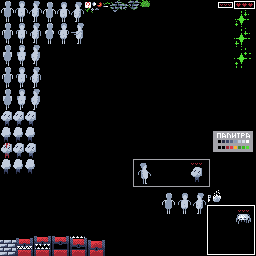
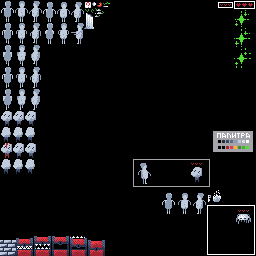
Changing sprites of background objects and their generation

Changed region(s): [[0.4375, 0.0, 0.5938, 0.0625], [0.3125, 0.0312, 0.4062, 0.125]]

diff --git a/map/MatrixMap.py b/map/MatrixMap.py
@@ -1,9 +1,62 @@
+import math
 import random
+
+from scipy.stats.qmc import PoissonDisk
 
 from map import MapGenerator
 from map.Tile import *
 import const
 from draw import Scene
+
+
+def generate_poisson(r, k, width, height):
+    # Результат и активный список
+    points = []
+    active = []
+
+    # Первая точка в центре
+    first_point = (width / 2, height / 2)
+    points.append(first_point)
+    active.append(first_point)
+
+    while active:
+        # Выбираем случайную точку из активного списка
+        idx = random.randint(0, len(active) - 1)
+        center = active[idx]
+
+        # Пробуем сгенерировать k точек вокруг неё
+        found = False
+        for _ in range(k):
+            # Случайный угол и расстояние от r до 2r
+            angle = random.uniform(0, 2 * math.pi)
+            distance = random.uniform(r, 2 * r)
+            new_x = center[0] + distance * math.cos(angle)
+            new_y = center[1] + distance * math.sin(angle)
+
+            # Проверяем, что точка внутри области
+            if not (0 <= new_x < width and 0 <= new_y < height):
+                continue
+
+            # Проверяем минимальное расстояние до всех существующих точек
+            valid = True
+            for point in points:
+                dx = new_x - point[0]
+                dy = new_y - point[1]
+                if dx * dx + dy * dy < r * r:
+                    valid = False
+                    break
+
+            if valid:
+                points.append((new_x, new_y))
+                active.append((new_x, new_y))
+                found = True
+                break
+
+        # Удаляем центр из активного списка, если не удалось сгенерировать новую точку
+        if not found:
+            active.pop(idx)
+
+    return points
 
 
 class MatrixMap:
@@ -82,3 +135,20 @@ class MatrixMap:
                     random.randint(0, size))
 
         return x, y
+
+    def randomPoints(self):
+        size = self.__size * const.TILE_SIZE
+        radius = 40
+        poisson = PoissonDisk(
+            d=2,
+            radius=radius/size,
+            optimization="random-cd"
+        )
+        points = poisson.random(n=200)
+        result = []
+        for i in points:
+            x, y = i[0] * size, i[1] * size
+            if self.isWalkable(x, y):
+                result.append([int(x), int(y)])
+
+        return result

diff --git a/const.py b/const.py
@@ -121,22 +121,24 @@ SPRITE_POS = {"stub_sprite":        [85, 2, 6, 6, 0],
               "wall":               [0, 240, 16, 16, 0],
 
               # Фоновые объекты
-              "back_obj_grass":               [85, 8, 5, 4, 0],
-              "back_obj_grass_r":             [85, 8, -5, 4, 0],
-              "back_obj_flower":              [91, 8, 3, 5, 0],
-              "back_obj_flower_r":            [91, 8, -3, 5, 0],
-              "back_obj_stone":               [95, 8, 4, 2, 0],
-              "back_obj_stone_r":             [95, 8, -4, 2, 0],
-              "back_obj_bush":                [140, 0, 10, 7, 0],
-              "back_obj_bush_r":              [140, 0, 10, -7, 0],
-              "back_obj_stone_floor_1":       [110, 0, 18, 12, 0],
-              "back_obj_stone_floor_2":       [110, 0, 18, -12, 0],
-              "back_obj_stone_floor_3":       [110, 0, -18, 12, 0],
-              "back_obj_stone_floor_4":       [110, 0, -18, -12, 0],
-              "back_obj_stone_floor_2_1":     [128, 0, 12, 10, 0],
-              "back_obj_stone_floor_2_2":     [128, 0, 12, -10, 0],
-              "back_obj_stone_floor_2_3":     [128, 0, -12, 10, 0],
-              "back_obj_stone_floor_2_4":     [128, 0, -12, -10, 0],
+              "back_obj_grass1":                [85, 8, 5, 4, 0],
+              "back_obj_grass1_r":              [85, 8, -5, 4, 0],
+              "back_obj_grass2":                [91, 8, 3, 5, 0],
+              "back_obj_grass2_r":              [91, 8, -3, 5, 0],
+              "back_obj_stone1":                [97, 9, 4, 2, 0],
+              "back_obj_stone1_r":              [97, 9, -4, 2, 0],
+              "back_obj_stone1_w_glass":        [95, 8, 6, 3, 0],
+              "back_obj_stone1_w_glass_r":      [95, 8, -6, 3, 0],
+              "back_obj_stone2":                [97, 12, 7, 2, 0],
+              "back_obj_stone2_r":              [97, 12, -7, 2, 0],
+              "back_obj_stone2_w_glass":        [97, 11, 9, 3, 0],
+              "back_obj_stone2_w_glass_r":      [97, 11, -9, 3, 0],
+              "back_obj_stone3":                [97, 15, 3, 2, 0],
+              "back_obj_stone3_r":              [97, 15, -3, 2, 0],
+              "back_obj_stone3_w_glass":        [97, 15, 5, 3, 0],
+              "back_obj_stone3_w_glass_r":      [97, 15, -5, 3, 0],
+              "back_obj_antique_column":        [84, 13, 10, 16, 0],
+              "back_obj_antique_column_r":      [84, 13, -10, 16, 0],
               }
 
 # Константы отображения окон

diff --git a/units/UnitsManager.py b/units/UnitsManager.py
@@ -8,7 +8,7 @@ from units import EggheadEnemy, MimicEnemy, Stats, BackgroundMapObject
 
 
 class UnitsManager:
-    def __init__(self, player, tileMap: MatrixMap, chanceEnemy: dict, countEnemy=200, countBackObj=500):
+    def __init__(self, player, tileMap: MatrixMap, chanceEnemy: dict, countEnemy=200, countBackObj=900):
         """
         Менеджер юнитов, отображает и обновляет юниты на карте.
         :param player: Игрок.
@@ -31,9 +31,12 @@ class UnitsManager:
             self.units.append(enemy)
             enemy.setUnitManager(self)
 
-        for i in range(countBackObj):
-            x, y = tileMap.randomPoint()
-            self.units.append(BackgroundMapObject(x, y))
+        print(len(self.units))
+        points = tileMap.randomPoints()
+        for i in points:
+            self.units.append(BackgroundMapObject(i[0], i[1]))
+
+        print(len(self.units))
 
     def randomEnemy(self, x: int, y: int):
         """

diff --git a/units/BackgroundMapObject.py b/units/BackgroundMapObject.py
@@ -15,14 +15,10 @@ class BackgroundMapObject(MovableObjects):
         """
         super().__init__(x, y)
 
-        backObj = ['back_obj_grass', 'back_obj_flower', 'back_obj_stone',
-                   'back_obj_grass_r', 'back_obj_flower_r', 'back_obj_stone_r',
-                   'back_obj_bush', 'back_obj_bush_r']
+        backObj = [key for key in const.SPRITE_POS if key.startswith("back_obj")]
 
-        backObjOnFloor = ['back_obj_stone_floor_1', 'back_obj_stone_floor_2',
-                          'back_obj_stone_floor_3', 'back_obj_stone_floor_4',
-                          'back_obj_stone_floor_2_1', 'back_obj_stone_floor_2_2',
-                          'back_obj_stone_floor_2_3', 'back_obj_stone_floor_2_4']
+        # Напольные объекты
+        backObjOnFloor = []
 
         selectSprite = random.choice(backObj + backObjOnFloor)
         super().setSprite(selectSprite)
